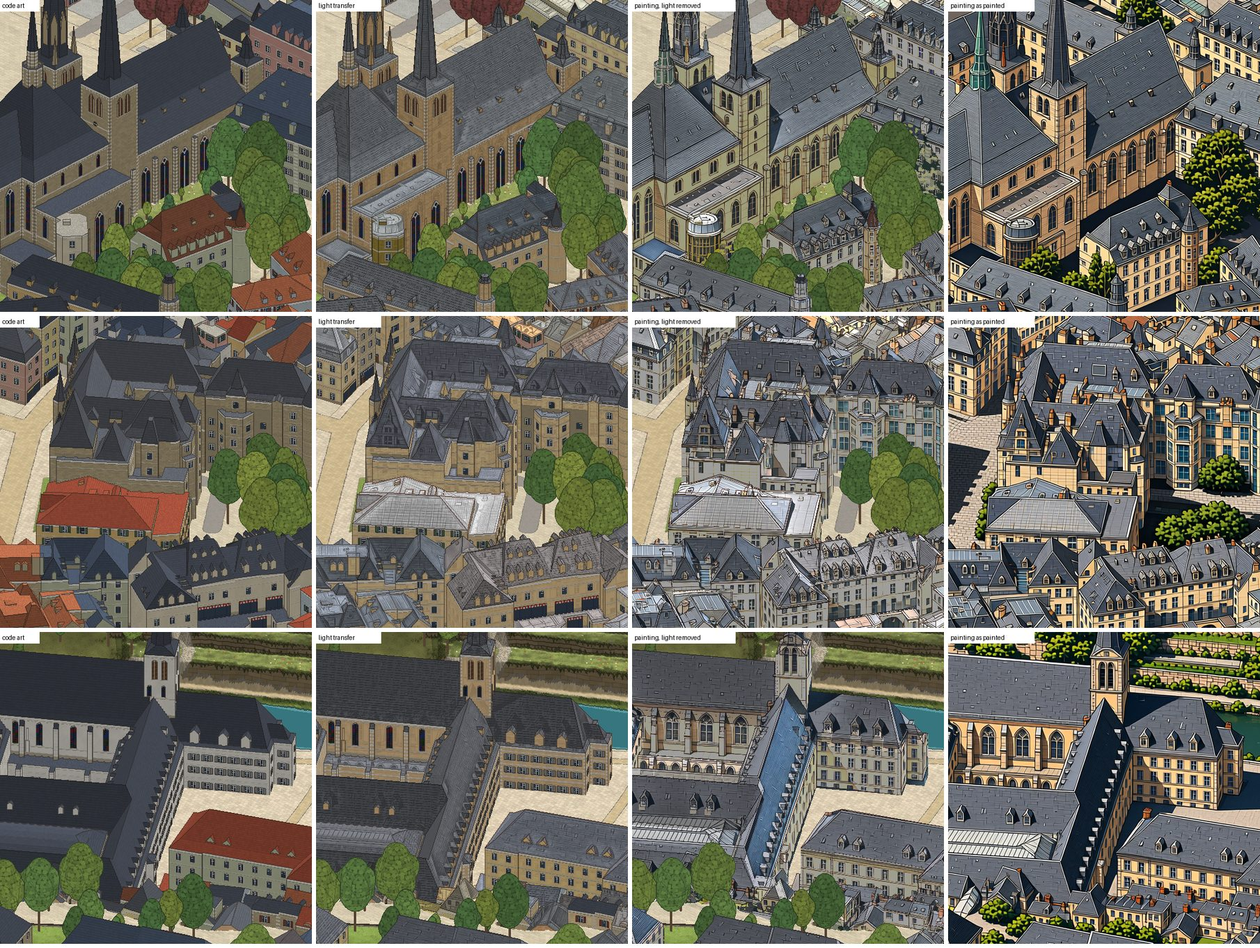
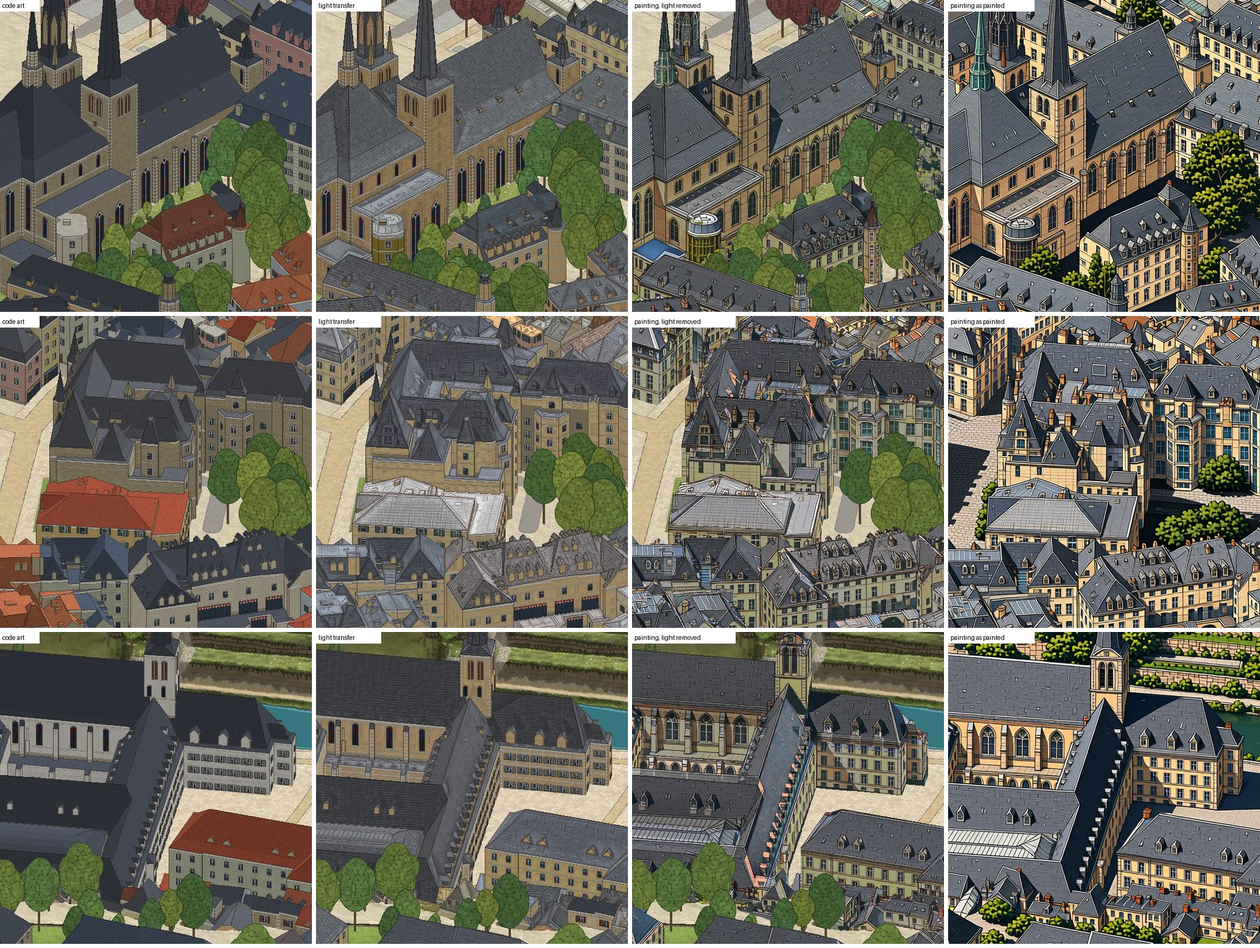
v2 phase 3: free work on the paintings' light; the even-light repaint quoted and approved (T2, q0017)
Light removal keeps the painting's own drawing and gives a shaded wall its lit
neighbour's colour; by the tool's own evenness figure it reaches 9 to 19 percent
against the 5 percent limit. Job T2 paints T1's six blocks again with the prompt
asking for even light. The owner approved q0017 on 22 Nov 2026.

Changed region(s): [[0.495, 0.0, 0.7735, 1.0], [0.495, 0.9559, 0.526, 1.0], [0.7116, 0.1233, 0.7425, 0.1542]]

diff --git a/v2/bakeoff/detail.py b/v2/bakeoff/detail.py
@@ -19,12 +19,13 @@ edges best meet the code art's.
 
 Two sources of paintings:
   free   v1's finished day art, as it is on disk (v1 painted at 0.293 m/px; v2's map pixel is 0.125 m)
+  T2     T1 again, inputs and seeds, with the prompt asking for even light (jobs.py T2)
   T1     new paintings of the same blocks by v1's style model from v1's capture and v2's own line layout, at two
          scales: p250 (one model pixel = 0.25 m, the scale v1 was painted at, one painting per 256 m block) and
          p125 (0.125 m, v2's own scale, the block's central 128 m). Paid: jobs.py T1, quoted, the owner's to approve.
 
     python -m v2.bakeoff inputs detail      T1's control images for the six blocks, both scales ($0)
-    python -m v2.bakeoff detail [--source free|T1]
+    python -m v2.bakeoff detail [--source free|T1|T2]
                                             register + transfer on the six blocks, the numbers and the sheets
 """
 from __future__ import annotations
@@ -54,7 +55,8 @@ BLOCKS = {
     "clausen": (65552, 33776),
 }
 SCALES = {"p250": 2, "p125": 1}               # v2 map pixels per model pixel
-SEEDS = (1867, 1868)                          # pod/run.sh T1
+SEEDS = (1867, 1868)                          # pod/run.sh T1, T2
+PAINTED = {"T1": "painted", "T2": "painted_even"}   # where each paid job's paintings are (bundle.OUT)
 WALL, PART, ROOF = 11, 22, 23                 # layers/common.py CLASS: what a painting may colour
 PAINT_LAYERS = (5, 6)                         # which: buildings, structures
 P = {
@@ -347,12 +349,44 @@ def transfer(code, painting, g: dict, have=None, p: dict = P):
     return np.clip(np.round(out), 0, 255).astype(np.uint8), st
 
 
-def delit(code, painting, g: dict, sigma=24.0, clip=(-1.1, 0.5), p: dict = P):
-    """The painting used more directly (a first, rough version, for the trial's sheet): inside each face the
-    (registered) painting keeps all its own drawing, its windows, dormers and joints, and half its own colour
-    changes; only the face's light is replaced, its brightness taken against its own mean over `sigma` px and set
-    on one colour per building part. The code art keeps the ground, the trees and the ink on the borders between
-    faces and buildings; its own windows are not drawn. A cast shadow wider than sigma survives in part."""
+def photo_shadow(g: dict, meta: dict, rel: Path | None = None) -> np.ndarray:
+    """Where the 3D model puts a cast shadow for the aerial photo's sun (params g1.shadow_photo_sun, the sun the
+    paintings' input was photographed under), per pixel of a window: layers/light.py's reference on the release's
+    own shadow height map."""
+    from v2.checks.g1_checks import _when
+    from v2.config import params
+    from v2.layers.common import unpack_bin, unproject
+    from v2.layers.light import HeightMap, shadow_ref, sun_vector
+    rel = rel or release()
+    li = json.loads((rel / "light.json").read_text())
+    shape = (li["height"], li["width"], 4)
+    hm = HeightMap.decode(unpack_bin((rel / "shadow_a.bin").read_bytes(), shape, np.uint8),
+                          unpack_bin((rel / "shadow_b.bin").read_bytes(), shape, np.uint8),
+                          li["e0"], li["n0"], li["step"], li["zbase"])
+    az, el, _sv = sun_vector(_when(params()["g1"]["shadow_photo_sun"]))
+    n = g["which"].shape[0]; step = meta["size"] / n
+    PX, PY = np.meshgrid(meta["x0"] + (np.arange(n) + 0.5) * step, meta["y0"] + (np.arange(n) + 0.5) * step)
+    ok = g["depth"] < 1e8
+    cast = np.zeros(ok.shape, bool)
+    e, nn, z = unproject(PX[ok], PY[ok], g["depth"][ok])
+    cast[ok] = shadow_ref(hm, e, nn, z, az, el) > 0
+    return cast
+
+
+def delit(code, painting, g: dict, cast=None, sigma=24.0, clip=(-1.1, 0.5), dark=0.6, p: dict = P):
+    """The painting used more directly: inside each face the (registered) painting keeps all its own drawing, its
+    windows, dormers and joints, and its colour changes; only the face's light is replaced.
+
+    A face's light is its own tone near each pixel: the mean brightness (of the logarithm) over `sigma` px of the
+    face's pixels, leaving out those far darker than their surroundings (by `dark`, about half as bright: the
+    windows drawn on it, which would otherwise make a windowed wall come out brighter than a plain one). Beside it
+    the surface's own tint, the median over the face's brighter 60%. A tighter `dark` (0.25) measured less even on
+    the paintings: on a wall drawn in several tones it follows the highlights, not the surface. Every pixel keeps its brightness and its
+    tint relative to those, set on one colour per building part (the walls' from the lit side). So a wall the
+    painting shaded comes out as its lit neighbour, its windows still dark and blue, and a shadow cast across a
+    face fades out over about sigma. Where `cast` (the model's cast shadow for the photo's sun, photo_shadow) is
+    given, the two sides of its edge are levelled apart, so the edge does not smear. The code art keeps the
+    ground, the trees and the ink on the borders between faces and buildings; its own windows are not drawn."""
     from scipy import ndimage as ndi
     code = code.astype(float); src = painting.astype(float) + 1.0
     bid, cls, face, _seg = segments(g)
@@ -366,6 +400,7 @@ def delit(code, painting, g: dict, sigma=24.0, clip=(-1.1, 0.5), p: dict = P):
     border = ndi.binary_dilation(e, iterations=1)
     ly = np.log(lum(src))
     chroma = src / lum(src)[..., None]
+    side = np.zeros(on.shape, np.int64) if cast is None else cast.astype(np.int64)
     H, W = on.shape; pad = int(2.5 * sigma)
     for b in np.unique(bid[on]):
         mb = on & (bid == b)
@@ -377,20 +412,30 @@ def delit(code, painting, g: dict, sigma=24.0, clip=(-1.1, 0.5), p: dict = P):
             if good.sum() < p["min_px"] * 0.5:
                 continue
             target = band_colour(src[good] - 1.0, p["band_roof" if kind else "band_wall"])
-            tl = lum(target)
             rows = np.flatnonzero(m.any(1)); cols = np.flatnonzero(m.any(0))
             r0, c0 = max(rows[0] - pad, 0), max(cols[0] - pad, 0)
             r1, c1 = min(rows[-1] + 1 + pad, H), min(cols[-1] + 1 + pad, W)
             sl = (slice(r0, r1), slice(c0, c1))
+            lys, chs = ly[sl], chroma[sl]
             for f in np.unique(face[sl][m[sl]]):
-                mf = m[sl] & (face[sl] == f) & ~tree[sl]
-                w = mf.astype(float)
-                if w.sum() < 40:
+                whole = m[sl] & (face[sl] == f) & ~tree[sl]
+                if whole.sum() < 40:
                     continue
-                mean = ndi.gaussian_filter(ly[sl] * w, sigma) / np.maximum(ndi.gaussian_filter(w, sigma), 1e-3)
-                d = np.clip(ly[sl] - mean, *clip)
-                val = tl * np.exp(d)[..., None] * (0.5 * chroma[sl] + 0.5 * (target / tl)[None, None, :])
-                sub = out[sl]; sub[mf] = val[mf]; out[sl] = sub
+                v = lys[whole]
+                tint = np.median(chs[whole & (lys >= np.quantile(v, 0.4))], axis=0)
+                parts = [whole & (side[sl] == k) for k in (0, 1)]
+                if min(x.sum() for x in parts) < 0.15 * whole.sum():
+                    parts = [whole]                         # no real shadow edge on this face
+                for mf in parts:
+                    w = mf.astype(float)
+                    m1 = ndi.gaussian_filter(lys * w, sigma) / np.maximum(ndi.gaussian_filter(w, sigma), 1e-3)
+                    w2 = w * (lys > m1 - dark)
+                    den = ndi.gaussian_filter(w2, sigma)
+                    tone = np.where(den > 0.02, ndi.gaussian_filter(lys * w2, sigma) / np.maximum(den, 1e-3), m1)
+                    d = np.clip(lys - tone, *clip)
+                    crel = np.clip(chs / tint[None, None, :], 0.6, 1.6) ** 0.8
+                    val = target[None, None, :] * np.exp(d)[..., None] * crel
+                    sub = out[sl]; sub[mf] = val[mf]; out[sl] = sub
     ink = (lum(code) + 1.0 < p["ink"]) & border & on
     out[ink] = code[ink]
     return np.clip(np.round(out), 0, 255).astype(np.uint8)
@@ -529,7 +574,7 @@ def painting_for(name: str, source: str, k: int = 0):
     x0, y0, size, step = window_of(name)
     if source == "free":
         return v1_painted(x0, y0, size)
-    f = base() / "painted" / f"{name}_{k}.png"
+    f = base() / PAINTED[source] / f"{name}_{k}.png"
     if not f.exists():
         return None, None
     im = Image.open(f).convert("RGB")
@@ -600,7 +645,7 @@ def run(source: str = "free", img: Path | None = None, write=True) -> dict:
                     zooms.append(sheet_row(r, crop=(slice(256, 768), slice(256, 768))))
                     if source != "free":                 # four ways: code, transfer, painting without its light, painting
                         c = (slice(256, 768), slice(256, 768))
-                        dl = delit(r["code"], r["registered"], r["g"])
+                        dl = delit(r["code"], r["registered"], r["g"], photo_shadow(r["g"], r["meta"]))
                         res[key]["flat_delit"] = flat_by_part(dl, r["g"])
                         t = r["g"].get("trees")
 

diff --git a/v2/bakeoff/tests/test_detail.py b/v2/bakeoff/tests/test_detail.py
@@ -116,9 +116,30 @@ def test_the_trial_job_is_quoted_from_the_last_runs_times_and_fits_the_phase():
     assert j.est_usd <= j.worst_usd <= 1.10
     budget = json.loads((HERE / "budget.json").read_text())
     assert j.worst_usd <= budget["goals"][j.goal]["cap_usd"]
-    assert 'T1)  paint "$V1" 1867,1868 ;;' in (runner.POD / "run.sh").read_text()
+    assert 'T1|T2)  paint "$V1" 1867,1868 ;;' in (runner.POD / "run.sh").read_text()
     assert B.SETUP["T1"] == "paint" and B.OUT["T1"] == "detail/painted"
     assert any(str(u[0]).endswith(B.V1_LORA) for u in B.uploads("T1", HERE))
+
+
+def test_the_even_light_repaint_differs_from_t1_by_its_prompt_only(tmp_path, monkeypatch):
+    from v2.bakeoff import prompts as PR
+    t1, t2 = J.BY_ID["T1"], J.BY_ID["T2"]
+    assert (t2.gpu, t2.cloud, t2.goal, t2.work, t2.model) == (t1.gpu, t1.cloud, t1.goal, t1.work, t1.model)
+    assert J.T1_MEASURED_S <= t2.est_h * 3600 <= J.T1_MEASURED_S + 60 and t2.worst_usd <= 1.10
+    assert runner.cap_seconds(t2) - 45 >= 1.4 * J.T1_MEASURED_S
+    assert B.OUT["T2"] == "detail/painted_even" != B.OUT["T1"] and D.PAINTED == {"T1": "painted", "T2": "painted_even"}
+    # the bundles: the same control images, the prompts apart by the even-light sentence alone
+    monkeypatch.setattr(B, "base", lambda: tmp_path)
+    monkeypatch.setattr(D, "base", lambda: tmp_path / "detail")
+    src = tmp_path / "detail" / "inputs"; src.mkdir(parents=True)
+    for n in D.input_names():
+        for ext in ("unlit.png", "layout.png"):
+            (src / f"{n}.{ext}").write_bytes(f"{n}.{ext}".encode())
+    b1, b2 = B.build("T1"), B.build("T2")
+    files = lambda d: {p.name: p.read_bytes() for p in (d / "inputs").iterdir()}          # noqa: E731
+    assert files(b1) == files(b2) and len(files(b1)) == 24
+    assert (b1 / "prompt.txt").read_text() == PR.V1_CAPTION
+    assert (b2 / "prompt.txt").read_text() == PR.V1_CAPTION + PR.EVEN
 
 
 def test_the_trial_job_cannot_run_without_its_own_approval(tmp_path):
@@ -145,7 +166,7 @@ def test_delit_keeps_the_paintings_own_drawing_and_the_codes_border_ink():
     code, g = scene()
     painting = painting_of(code, g)
     cls = g["ids"] & 255
-    out = D.delit(code, painting, g, sigma=8.0)
+    out = D.delit(code, painting, g)
     # the painted window (dark on the wall) is still there, where the light transfer keeps the code's
     win = cls == 12; wall = (cls == 11) & (D.lum(code.astype(float)) > 100)
     assert D.lum(out[win].astype(float)).mean() < 0.5 * D.lum(out[wall].astype(float)).mean()
@@ -154,3 +175,21 @@ def test_delit_keeps_the_paintings_own_drawing_and_the_codes_border_ink():
     for r0, c0 in ((40, 30), (120, 130)):
         assert (out[r0 + 30, c0 + 2:c0 + 68] == code[r0 + 30, c0 + 2:c0 + 68]).all()
     assert (out[g["which"] == 1] == code[g["which"] == 1]).all()
+
+
+def test_delit_gives_a_shaded_wall_its_lit_neighbours_colour():
+    code, g = scene()
+    # a second wall face on each building (the right 30 columns turn the corner), which the painting shades
+    cls = g["ids"] & 255; cc = np.indices(cls.shape)[1]
+    side = np.zeros(cls.shape, bool)
+    for b, c0 in ((1, 30), (2, 130)):
+        side |= (cls == 11) & ((g["ids"] >> 8) == b) & (cc >= c0 + 40)
+    g["normal"][side] = (-0.6, 0.0, 0.8)
+    painting = painting_of(code, g).astype(float)
+    painting[side] *= 0.45
+    out = D.delit(code, painting.astype(np.uint8), g)
+    for b in (1, 2):
+        w = (cls == 11) & ((g["ids"] >> 8) == b)
+        front, shaded = D.lum(out[w & ~side].astype(float)), D.lum(out[w & side].astype(float))
+        assert abs(np.median(shaded) / np.median(front) - 1) < 0.03
+    assert D.flat_by_part(out, g, min_px=200)["worst"] < 0.03 < D.flat_by_part(painting, g, min_px=200)["worst"]

diff --git a/v2/bakeoff/bundle.py b/v2/bakeoff/bundle.py
@@ -16,6 +16,7 @@
        (Phase 3, cutaway_paint.py; v1's style model)
   T1   six blocks at two scales: v1's capture and v2's line layout        -> detail/painted/<block>_<scale>_<k>.png
        (Phase 3, detail.py; v1's style model and v1's own prompt)
+  T2   T1's inputs and seeds, the prompt asking for even light            -> detail/painted_even/<block>_<scale>_<k>.png
 """
 from __future__ import annotations
 
@@ -28,9 +29,9 @@ from v2.config import v1_work, v2_data
 
 AREA = "test"
 SETUP = {"B1": "t2i", "B2": "paint", "C1p": "paint", "C1": "paint", "C2p": "train", "C2": "train", "C3": "paint", "C4": "paint",
-         "K1": "paint", "T1": "paint"}
+         "K1": "paint", "T1": "paint", "T2": "paint"}
 OUT = {"B1": "b/materials", "B2": "b/landmarks", "C1p": "c/targets", "C1": "c/targets", "C2p": "c/train_pilot",
-       "C2": "c/train", "C3": "c/painted", "C4": "c/facades", "K1": "cutaways/painted", "T1": "detail/painted"}
+       "C2": "c/train", "C3": "c/painted", "C4": "c/facades", "K1": "cutaways/painted", "T1": "detail/painted", "T2": "detail/painted_even"}
 # the training job keeps a checkpoint every 200 steps (295 MB each): only two of them, the final LoRA and the
 # optimizer state come back
 PULL_FILTER = {"C2p": ("--include=*_000000200.safetensors", "--exclude=*_0000*.safetensors"),
@@ -119,14 +120,15 @@ def build(job: str) -> Path:
             raise SystemExit("K1: no cutaway inputs (python -m v2.bakeoff inputs cutaway)")
         _windows(d, names, src)
         (d / "prompt.txt").write_text(CP.PROMPTS["cathedral"])
-    elif job == "T1":
+    elif job in ("T1", "T2"):
         from v2.bakeoff import detail as DT
         src = DT.base() / "inputs"
         names = DT.input_names()
         if not all((src / f"{n}.{ext}").exists() for n in names for ext in ("unlit.png", "layout.png")):
-            raise SystemExit("T1: no inputs (python -m v2.bakeoff inputs detail)")
+            raise SystemExit(f"{job}: no inputs (python -m v2.bakeoff inputs detail)")
         _windows(d, names, src)
-        (d / "prompt.txt").write_text(P.V1_CAPTION)          # as v1's model was trained and as v1 painted
+        # T1: as v1's model was trained and as v1 painted. T2: the same with the even-light sentence
+        (d / "prompt.txt").write_text(P.V1_CAPTION if job == "T1" else P.C_TARGET_PROMPT)
     (d / "job.json").write_text(json.dumps({"job": job}))
     return d
 
@@ -136,7 +138,7 @@ def uploads(job: str, bdir: Path) -> list:
     has them (the session's earlier jobs) nothing is sent."""
     ups = [(str(bdir) + "/", f"/workspace/job/{job}/", ("-c",))]
     big = ("--size-only",)
-    if job in ("C1p", "C1", "K1", "T1") or (job in ("B2", "C4") and not new_lora().exists()):
+    if job in ("C1p", "C1", "K1", "T1", "T2") or (job in ("B2", "C4") and not new_lora().exists()):
         ups.append((str(v1_work() / V1_LORA), "/workspace/lora/", big))
     if job == "C3" or (job in ("B2", "C4") and new_lora().exists()):
         ups.append((str(new_lora()), "/workspace/lora/", big))

diff --git a/v2/bakeoff/__main__.py b/v2/bakeoff/__main__.py
@@ -13,10 +13,10 @@
                                                 images, as built and with its opening cleared (cutaway_paint.py)
     python -m v2.bakeoff inputs detail          T1 (Phase 3): six blocks' control images at two scales, v1's capture
                                                 and v2's line layout (detail.py)
-    python -m v2.bakeoff detail [--source free|T1]
+    python -m v2.bakeoff detail [--source free|T1|T2]
                                                 detail transfer on the six blocks: a painting's colour and fine
                                                 texture onto the code art, the numbers and the sheets. free = from
-                                                v1's finished art ($0); T1 = from T1's paintings
+                                                v1's finished art ($0); T1, T2 = from that job's paintings
     python -m v2.bakeoff trial [--no-build]     C4's result: on the ten trial buildings, method A against the facades
                                                 painted front-on and projected onto their walls (line score, flat
                                                 light, cars), a preview sheet, and the small C4 build registered as
@@ -383,7 +383,7 @@ def main(argv=None):
     pt = sub.add_parser("painted"); pt.add_argument("method", choices=["b", "c"])
     tr = sub.add_parser("trial"); tr.add_argument("--no-build", action="store_true", help="measure only, no C4 build")
     sub.add_parser("pilot-gates")
-    dt_ = sub.add_parser("detail"); dt_.add_argument("--source", choices=["free", "T1"], default="free")
+    dt_ = sub.add_parser("detail"); dt_.add_argument("--source", choices=["free", "T1", "T2"], default="free")
     pv = sub.add_parser("previews"); pv.add_argument("--url", default="http://localhost:5175/")
     pv.add_argument("--before", help="a folder with the earlier test_a_grund_golden_hour.jpg and test_a_grund_night.jpg: "
                                      "also writes the lighting before/after sheet")

diff --git a/v2/bakeoff/jobs.py b/v2/bakeoff/jobs.py
@@ -203,6 +203,22 @@ TRIAL_JOBS = [
                "23 s = 1,221 s (20.4 min), est 0.34 h; the cap of 0.5 h (30 min) leaves 9.6 min for a slower "
                "download or model load"]),
 ]
+# T1 as it ran (q0016, pod sk3bylykkbwscf, 21 Nov 2026): 1,153 s in all, 24 paintings at 20.9 s, model load 269 s.
+T1_MEASURED_S = 1153
+TRIAL_JOBS.append(
+    Job("T2", "detail", "even-light repaint: T1's six blocks, inputs and seeds painted again with the prompt asking "
+        "for flat even light and no shadows", "runpod", "A100 SXM",
+        est_h=0.33, cap_h=0.5, price_read="2026-11-21", goal=CUTAWAY_GOAL, cloud="secure",
+        work="6 blocks x 2 scales x 2 candidates = 24 paintings, 1024 x 1024, 8 steps (Lightning)",
+        model=f"{QWEN_EDIT} + {LIGHTNING} + {INK_V1}",
+        inputs="T1's own (python -m v2.bakeoff inputs detail) and T1's seeds: only the prompt differs, v1's caption "
+               "with the even-light sentence (prompts.C_TARGET_PROMPT)",
+        outputs="<data>/v2/test/bakeoff/detail/painted_even/<block>_<scale>_<k>.png -> python -m v2.bakeoff detail --source T2",
+        notes=["one thing changed against T1, the prompt, so each painting has T1's as its pair: whether the model "
+               "leaves the light out when asked, given the input it was trained on (Phase 2's pilot asked the same "
+               "of the plain code render)",
+               "time plan: T1's measured 1,153 s (19.2 min) on the same GPU and cloud, est 0.33 h; the cap of 0.5 h "
+               "(30 min) leaves 10.8 min"]))
 
 BY_ID = {j.id: j for j in JOBS + CUTAWAY_JOBS + TRIAL_JOBS}
 

diff --git a/v2/docs/PHASE3_REPORT.md b/v2/docs/PHASE3_REPORT.md
@@ -1355,7 +1355,8 @@ were plain because of their input, not because of the model.
 Sheets, four columns (code art, light transfer, painting with its light removed, painting as painted):
 `v2/docs/img/test_detail_t1_levels_1.jpg`, `test_detail_t1_levels_2.jpg`. Whole blocks and close views of the
 light transfer: `test_detail_t1_blocks.jpg`, `test_detail_t1_close_1.jpg`, `test_detail_t1_close_2.jpg`.
-Numbers: `<data>/v2/test/bakeoff/detail/checks/T1.json`.
+Numbers: `<data>/v2/test/bakeoff/detail/checks/T1.json`. The two four-column sheets were made again in
+section 14 with the later version of light removal; the figures in this table are the first version's.
 
 | | Even light (limit 5%) | Lines | How it looks |
 |---|---|---|---|
@@ -1389,4 +1390,58 @@ Numbers: `<data>/v2/test/bakeoff/detail/checks/T1.json`.
     placement in code, free; (c) stop here and put the effort into the code art. (a) and (b) can go together.
 44. **If paintings are used, G2 is reopened** (method A was chosen when the paintings were plain). That is the
     owner's decision, after a result that passes the light and line rules on these six blocks.
+
+## 14. After the trial: free work on the paintings' light, and the even-light repaint quoted (21 November, $0)
+
+Branch `v2-phase3-evenlight`. **Spent: $0.** No pod. One quote recorded, q0017, **not approved**.
+
+The owner's decision on question 43: "Even-light repaint + free fixes".
+
+### 14.1 Free work on removing the painted light (`detail.delit`)
+
+Tried on T1's 24 paintings. What changed and what it measured:
+
+| Change | Result |
+|---|---|
+| **Tint.** A shaded wall now takes its lit neighbour's colour; a pixel keeps its tint relative to its own face's. | Kept. The washed-out grey of the first version is gone: stone is stone-coloured, windows stay dark and blue. |
+| **Windows left out of a wall's tone** (pixels about half as bright as their surroundings). Without it, a wall with windows comes out 11% brighter than a plain one (the tool's test). | Kept, because the fault it fixes is real. But my evenness figure got worse with it: 9% to 19% (median per window) against 2% to 13% without. That figure takes the median of a wall including the windows painted on it, so it counts drawing as light; I did not change the figure to suit the result. |
+| **Cast shadows from the 3D model** for the aerial photo's sun (`detail.photo_shadow`), to level the two sides of a shadow's edge apart. | Kept, small effect (at most 2 points on the windows tried). The paintings' light is mostly whole walls shaded by direction and dark ground, and the ground is the code's anyway. |
+| **Placing the whole window first**, then each building. | Reverted. The line score of the placed paintings fell from 92.0% to 89.7%. |
+
+Where that leaves it: the result looks clearly closer to v1 (`v2/docs/img/test_detail_t1_levels_1.jpg`,
+`test_detail_t1_levels_2.jpg`, third column) and does not pass. Even light is over the 5% limit on every
+window by the figure above, and the build's own shadow gate has not been run on it. Lines are unchanged:
+92.0% of building edges and 86.0% of window rows after placement, against 95%.
+
+Also seen on the sheets: a large part of v1's look is its rock faces and trees, which this method leaves to
+the code art. They are not in the trial.
+
+### 14.2 The even-light repaint, quoted: T2
+
+T1 again, the same inputs and the same seeds, with one thing changed: the prompt adds "Evenly lit with flat
+light: no shadows, no shading from one side, nothing that moves." So each painting has T1's as its pair.
+
+| Quote | GPU | Expected | Worst case | Phase 3 after it, worst case |
+|---|---|---|---|---|
+| q0017 | RunPod A100 SXM, secure, $2.19/h (read 21 Nov) | $0.72 (T1 took 19.2 min) | $1.09 (30 min cap) | $5.31 of $8 left |
+
+What it answers: whether the model leaves the light out itself when asked, given the input it was trained
+on. Phase 2's pilot asked the same of the plain code render, and 10 of its 16 paintings were evenly lit. If
+it does, light removal in code has far less to do; if it does not, the remaining road is training a style
+model on evenly lit targets (the stopped jobs C1 to C3 of Phase 2, about $10 at their quotes).
+
+### 14.3 Not verified
+
+- The full build and its gates were not run; no layer, check or threshold changed. The tool's and the
+  ledger's tests pass (49).
+- No car detection on the paintings; nothing seen in the viewer or on tiles; seams between neighbouring
+  paintings not measured.
+
+### 14.4 Open questions
+
+43 is answered ("Even-light repaint + free fixes"). 44 stands.
+
+45. **Approve q0017** (T2, expected $0.72, worst case $1.09)?
+46. **Rock faces and trees.** Should the trial after this one let a painting reach the cliffs and the trees
+    too, since they carry much of v1's look? It would mean those layers also need a way to stay evenly lit.
 

diff --git a/research/v2/DECISIONS.md b/research/v2/DECISIONS.md
@@ -76,3 +76,5 @@ one is a decision for the owner, written here with its date.
 | Whole-church rule kept (13 Nov) | On question 35 of `v2/docs/PHASE3_REPORT.md` (a church that is most of its building is the church all over, so St Michael's tower has church windows though it lies outside its OSM outline), the owner decided on 13 Nov 2026, in the owner's words: "Keep it". |
 | Paint trial: prepare, then quote (13 Nov) | The owner asked whether the plan reaches v1's art style and whether textures like v1's can be made. Offered a trial of about six blocks painted in v1's style with only colour and fine texture kept from each painting (lines, windows and light staying the code's), about $1, the owner decided on 13 Nov 2026, in the owner's words: "Prepare it, then quote". On when to start, the owner chose "Wait until I say", and said on 21 Nov 2026: "start the trial prep". The preparation is `v2/bakeoff/detail.py` and section 12 of the report, at $0. Its quote is q0016 (worst case $1.09), recorded and **not approved**: approving it is a separate decision. |
 | Paint trial approved (21 Nov) | Asked "Approve quote q0016: paint six test-area blocks fresh in v1's style on RunPod (24 paintings, expected $0.74, worst case $1.09, Phase 3 keeps at least $6.02 of $8)?", the owner answered on 21 Nov 2026: "Approve q0016 (Recommended)". It approves q0016 only, for one run of job T1. |
+| Paint route: even-light repaint and free fixes (21 Nov) | Shown the trial's result (fresh paintings in v1's style are sharp and by far the best looking, but have painted light and reach 86-89% on the line rule against 95%), and asked what next on the paint route, the owner decided on 21 Nov 2026, in the owner's words: "Even-light repaint + free fixes". The free work is in `v2/bakeoff/detail.py` (report section 14). The repaint is job T2, quote q0017 (worst case $1.09), recorded and **not approved**: approving it is a separate decision. Gate G2 (method A) stands. |
+| Even-light repaint approved (22 Nov) | Asked whether to commit branch `v2-phase3-evenlight` and open a pull request into `v2`, and whether to approve quote q0017 (expected $0.72, worst case $1.09) for the even-light repaint, the owner answered on 22 Nov 2026: "do both, can i see resuts now?". It approves q0017 only, for one run of job T2, and the commit and pull request of that branch. |
